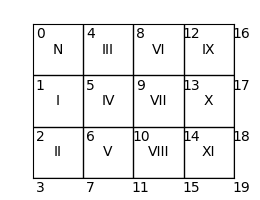
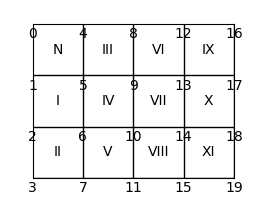
Fix node numbering in docu.

diff --git a/docs/source/_static/topoptlab_mesh.py b/docs/source/_static/topoptlab_mesh.py
@@ -34,7 +34,7 @@ def plot_meshnumbering2d(nelx=4,nely=3,ndof=2,
     # add node numbers
     for i in range(nely+1):
         for j in range(nelx+1):
-            ax.text(x=j-0.35, y=i-0.3, 
+            ax.text(x=j-0.5, y=i-0.3, 
                     s=",".join([str(s+ndoffset) for s in \
                                 ndgrid[i*ndof:(i+1)*ndof,j]]), 
                     ha='center', va='center', fontsize=10)
@@ -50,7 +50,7 @@ def plot_meshnumbering2d(nelx=4,nely=3,ndof=2,
     ax.set_xlim(-0.5, nelx-0.5)
     ax.set_ylim(nely-0.5, -0.5)
     if show:
-        plt.savefig("meshnumbering-2d.png",
+        plt.savefig("meshnumbering-"+["scalar","vector"][int(ndof!=1)]+"-2d.png",
                     format="png")
         plt.show()
     return
@@ -124,20 +124,24 @@ def plot_meshnumbering3d(nelx=4,nely=3,nelz=2,ndof=2):
     # 2d plots 
     for i in range(nelz+1):
         axs[i,1].set_title("z = "+str(i), fontsize=12)
-        plot_meshnumbering2d(nelx=nelx,nely=nely,ndof=ndof,
-                             eloffset=i*nelx*nely,ndoffset=i*(nelx+1)*(nely+1),
+        plot_meshnumbering2d(nelx=nelx, nely=nely, ndof=ndof,
+                             eloffset=i*nelx*nely,
+                             ndoffset=i*(nelx+1)*(nely+1)*ndof,
                              ax=axs[i,1])
         axs[i,1].set_xlabel("x", fontsize=12)
         axs[i,1].set_ylabel("y", fontsize=12)
     # Adjust layout to prevent overlap
     fig.tight_layout()
-    plt.savefig("meshnumbering-3d.png",
+    plt.savefig("meshnumbering-"+["scalar","vector"][int(ndof!=1)]+"-3d.png",
                 format="png")
     plt.show()
     return
     
 if __name__ == "__main__":
-    #
+    # scalar fields
     plot_meshnumbering2d(nelx=4,nely=3,ndof=1)
     plot_meshnumbering3d(nelx=4,nely=3,ndof=1)
+    # vector fields
+    plot_meshnumbering2d(nelx=3,nely=2,ndof=2)
+    plot_meshnumbering3d(nelx=3,nely=2,ndof=3)
     

diff --git a/monolithic_codes/README.md b/monolithic_codes/README.md
@@ -61,12 +61,11 @@ topopth_time.py
 Transient heat conduction to minimize f^{T} u at every timestep and serves as
 demonstration code for transient topology optimization.
 
-
 homogenization.py
 
 This is a conversion of the Matlab code from
 
 Andreassen, Erik, and Casper Schousboe Andreasen. "How to determine composite material properties using numerical homogenization." Computational Materials Science 83 (2014): 488-495."
 
-to Python- Currently only linear elasticity is available and still needs 
+to Python. Currently only linear elasticity is available and still needs 
 cleaning up.
